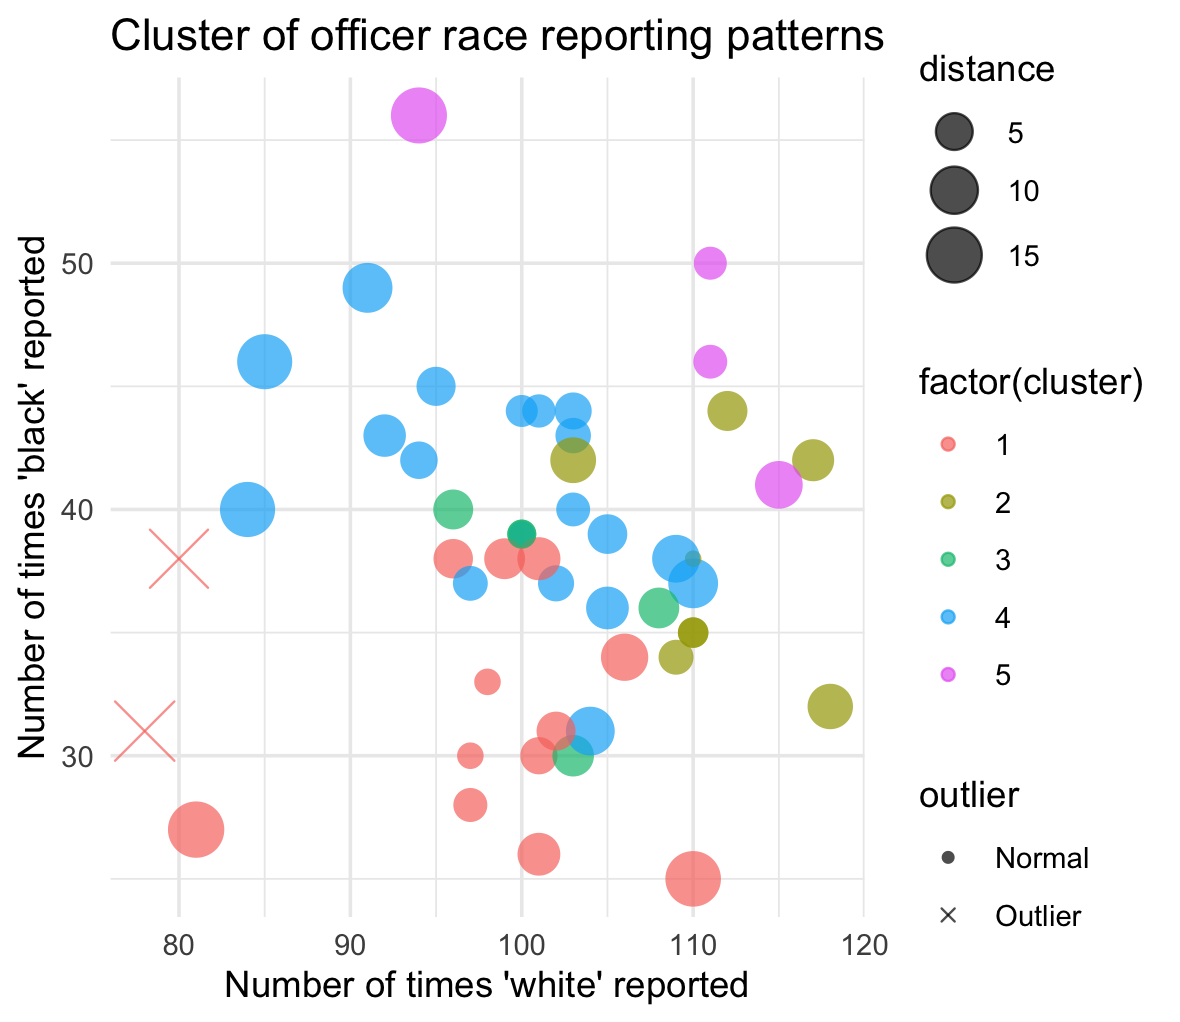
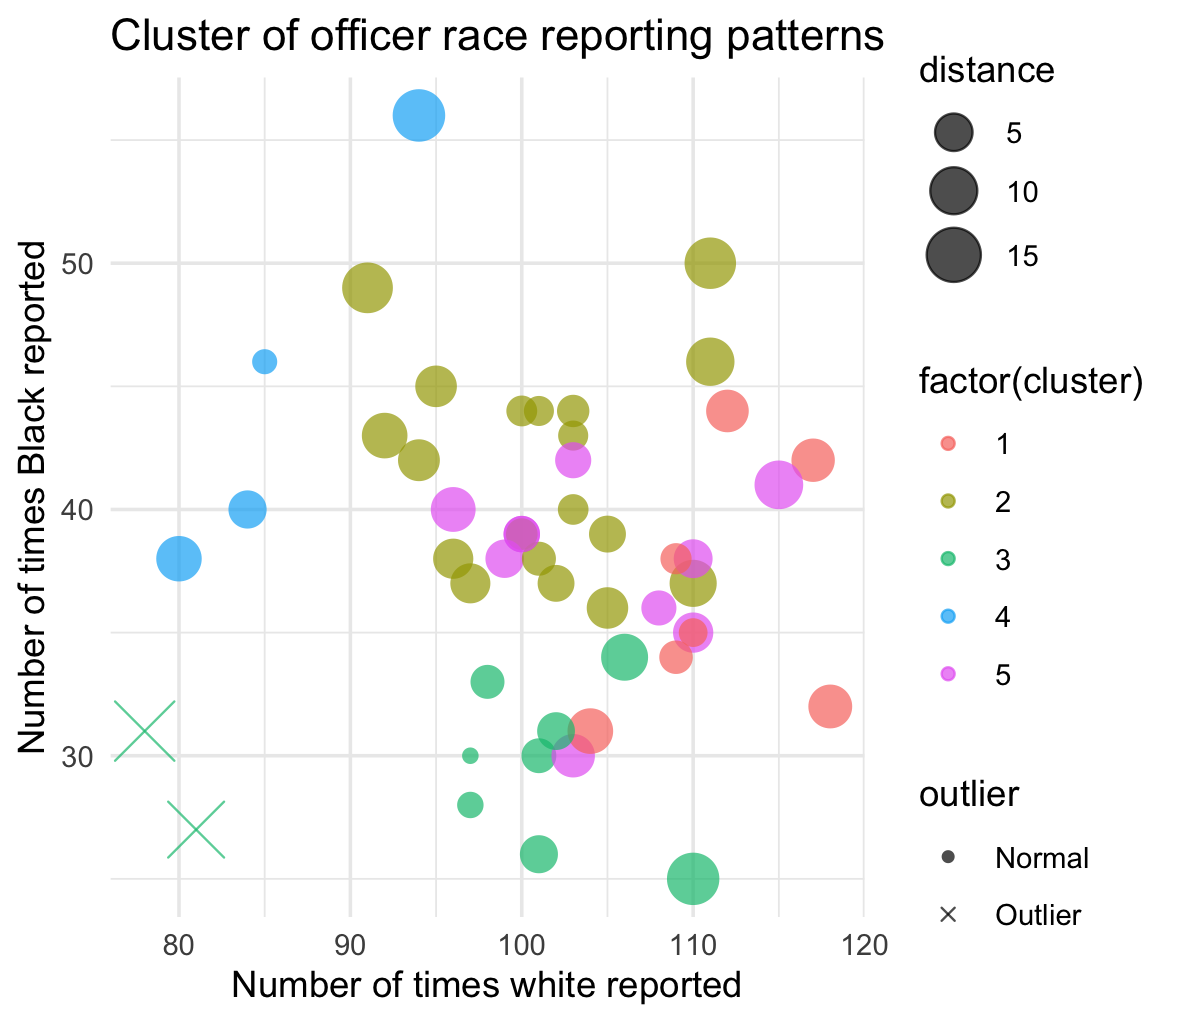
update

diff --git a/_posts/2024-05-04-traffic-stops-anomoly-detection.md b/_posts/2024-05-04-traffic-stops-anomoly-detection.md
@@ -18,7 +18,7 @@ In this post, I'll explore three possible methods, applied on data I simulated (
 
 3. **Residuals.** This method involves training a logistic regression model to predict the race of a subject based on non-racial features (e.g., time of day, age, gender). By examining the residuals (the difference between the predicted probability and the actual reported value), we can identify officers whose reports consistently differ from what the model predicts, suggesting possible misreporting.
 
-All R code for simulating the data and analyzing it using three methods shared below.
+All R code for simulating the data and analyzing it using the three methods shared below.
 
 ## chi-square test
 
@@ -31,7 +31,7 @@ The color coding is particularly telling: blue points indicate officers for whom
 ## k-means clustering
 ![](/images/2024-05-04-traffic-stops-anomoly-detection/cluster.png) 
 
-Plot visualizing the results of a cluster analysis on the race reporting patterns of police officers, reflecting how often they report 'White' and 'Black' individuals during traffic stops. Each colored dot represents an officer, plotted according to the number of times they have reported stopping 'White' and 'Black' individuals. 
+Plot visualizing the results of a cluster analysis on the race reporting patterns of police officers, reflecting how often they report white and Black individuals during traffic stops. Each colored dot represents an officer, plotted according to the number of times they have reported stopping white and Black individuals. 
 
 The colors indicate different clusters, each representing a group of officers with similar reporting behaviors, which could suggest similar operational areas or potentially shared biases in reporting practices. 
 
@@ -90,7 +90,7 @@ misreport_race <- function(race) {
 traffic_stops$subject_race[traffic_stops$badge_id %in% anomalous_officers & 1:n %in% anomaly_entries] <- 
   sapply(traffic_stops$subject_race[traffic_stops$badge_id %in% anomalous_officers & 1:n %in% anomaly_entries], misreport_race)
 
-# 1. statistical analysis: chi2 test
+# chi2 test
 # calculate observed counts of race reports per officer
 officer_race_counts <- traffic_stops %>%
   group_by(badge_id, subject_race) %>%
@@ -140,11 +140,11 @@ ggplot(observed_and_expected, aes(x = badge_id, y = chi_square_p_value)) +
     min.segment.length = 0.1 # Min length of the segment line
   ) + 
   scale_color_manual(values = c("TRUE" = "red", "FALSE" = "blue")) +  # Colors for significant or not
-  labs(title = "Chi2 Test P-values for Each Officer", x = "Badge ID", y = "P-value") +
+  labs(title = "P-values for each officer", x = "Badge ID", y = "P-value", colour = "p < 0.05") +
   theme_minimal() +
   theme(axis.text.x = element_text(angle = 45, hjust = 1))  # Adjust x-axis labels for readability
 
-# 2. cluster analysis: k-means clustering
+# 2. k-means clustering
 race_profiles <- dcast(officer_race_counts, badge_id ~ subject_race, value.var = "count", fill = 0)
 
 clusters <- kmeans(scale(race_profiles[,-1]), centers = 5)
@@ -174,13 +174,13 @@ ggplot(race_profiles, aes(x = White, y = Black, color = factor(cluster))) +
   geom_point(aes(size = distance, shape = outlier), alpha = 0.7) +
   scale_size_continuous(range = c(2, 8)) +  # Adjust size range as appropriate
   scale_shape_manual(values = c("Normal" = 16, "Outlier" = 4)) +
-  labs(title = "Cluster of Officer Race Reporting Patterns",
-       x = "Number of Times 'White' Reported", 
-       y = "Number of Times 'Black' Reported") +
+  labs(title = "Cluster of officer race reporting patterns",
+       x = "Number of times white reported", 
+       y = "Number of times Black reported") +
   theme_minimal() +
   theme(legend.position = "right")
 
-# 3. machine learning: Logistic Regression Residuals
+# 3. logistic regression residuals
 traffic_stops$subject_race <- as.factor(traffic_stops$subject_race)
 model <- train(subject_race ~ time_of_day + subject_age + subject_gender + division, data = traffic_stops, method = "multinom", trControl = trainControl(method = "none"))
 predicted_prob <- predict(model, traffic_stops, type = "prob")
